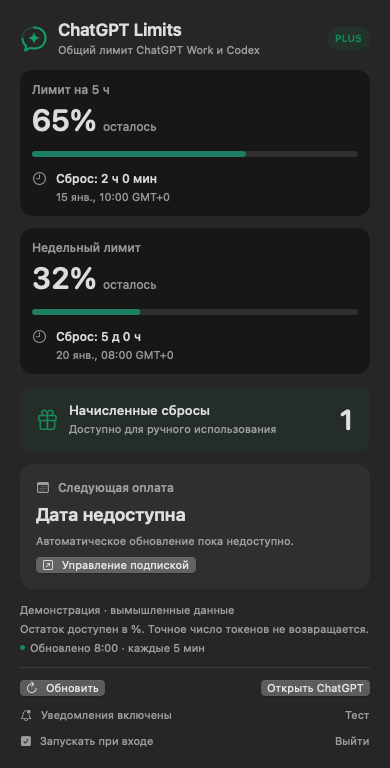
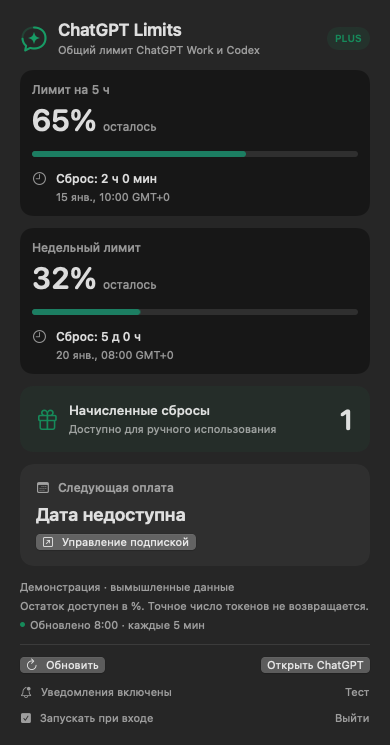
Release 1.3.8 with verified renewal date import

diff --git a/Sources/LimitsCore/VerifiedBilling.swift b/Sources/LimitsCore/VerifiedBilling.swift
@@ -3,38 +3,85 @@ import CryptoKit
 
 /// A dated observation of the subscription page, not an automatic billing feed.
 /// Store only this projection locally; never store browser credentials or invoices.
-public struct VerifiedBilling: Codable {
+public struct VerifiedBilling: Codable, Equatable {
     public let accountFingerprint: String
     public let planType: String
     public let renewalDay: String
     public let checkedAt: Double
     public let source: String
 
-    public static func load(accountID: String?, plan: String?, now: Date) -> VerifiedBilling? {
-        let url = FileManager.default.homeDirectoryForCurrentUser
+    private static var storageURL: URL {
+        FileManager.default.homeDirectoryForCurrentUser
             .appendingPathComponent("Library/Application Support/ChatGPT Limits/verified-billing.json")
+    }
+
+    private static func stored() -> VerifiedBilling? {
+        let url = storageURL
         guard let size = try? url.resourceValues(forKeys: [.fileSizeKey]).fileSize, size <= 4096,
-              let data = try? Data(contentsOf: url),
-              let snapshot = try? JSONDecoder().decode(VerifiedBilling.self, from: data),
-              snapshot.matches(accountID: accountID, plan: plan, now: now) else { return nil }
+              let data = try? Data(contentsOf: url) else { return nil }
+        return try? JSONDecoder().decode(VerifiedBilling.self, from: data)
+    }
+
+    public static func load(accountID: String?, plan: String?, now: Date) -> VerifiedBilling? {
+        guard let snapshot = stored(), snapshot.matches(accountID: accountID, plan: plan, now: now) else { return nil }
         return snapshot
+    }
+
+    static func fingerprint(_ value: String) -> String {
+        SHA256.hash(data: Data(value.utf8)).map { String(format: "%02x", $0) }.joined()
+    }
+
+    public static func refreshDue(at now: Date) throws -> Bool {
+        guard let snapshot = stored(), !snapshot.needsVerification(at: now),
+              (snapshot.daysRemaining(at: now) ?? 0) > 0 else { return true }
+        let usage = try LimitsReader.fetch()
+        return !snapshot.matches(accountID: usage.accountId, plan: usage.planType, now: now)
+            || now.timeIntervalSince1970 - snapshot.checkedAt >= 6 * 86400
+    }
+
+    public static func sync(renewalDay: String, emailFingerprint: String, plan: String, at now: Date) throws {
+        guard let date = parseDay(renewalDay),
+              date >= Calendar(identifier: .gregorian).startOfDay(for: now),
+              emailFingerprint.range(of: "^[0-9a-f]{64}$", options: .regularExpression) != nil,
+              plan.range(of: "^[a-z0-9_]{1,30}$", options: .regularExpression) != nil else {
+            throw LimitsError.malformed
+        }
+        let usage = try LimitsReader.fetchBillingUsage(emailFingerprint: emailFingerprint, plan: plan)
+        guard let accountID = usage.accountId, !accountID.isEmpty, usage.planType == plan else {
+            throw LimitsError.authentication
+        }
+        let snapshot = VerifiedBilling(accountFingerprint: fingerprint(accountID), planType: plan,
+                                       renewalDay: renewalDay, checkedAt: now.timeIntervalSince1970,
+                                       source: "chatgpt-settings")
+        let url = storageURL
+        let manager = FileManager.default
+        let directory = url.deletingLastPathComponent()
+        try manager.createDirectory(at: directory, withIntermediateDirectories: true,
+                                    attributes: [.posixPermissions: 0o700])
+        let staging = directory.appendingPathComponent(UUID().uuidString)
+        defer { try? manager.removeItem(at: staging) }
+        guard manager.createFile(atPath: staging.path, contents: try JSONEncoder().encode(snapshot),
+                                 attributes: [.posixPermissions: 0o600]) else { throw CocoaError(.fileWriteUnknown) }
+        // The private, fully written file replaces the previous snapshot atomically.
+        guard rename(staging.path, url.path) == 0 else { throw CocoaError(.fileWriteUnknown) }
     }
 
     public func matches(accountID: String?, plan: String?, now: Date) -> Bool {
         guard let accountID, !accountID.isEmpty, plan == planType,
               source == "chatgpt-settings", checkedAt.isFinite, checkedAt > 0,
               checkedAt <= now.timeIntervalSince1970 + 60, renewalDate != nil else { return false }
-        let fingerprint = SHA256.hash(data: Data(accountID.utf8)).map { String(format: "%02x", $0) }.joined()
-        return fingerprint == accountFingerprint
+        return Self.fingerprint(accountID) == accountFingerprint
     }
 
-    public var renewalDate: Date? {
+    public var renewalDate: Date? { Self.parseDay(renewalDay) }
+
+    private static func parseDay(_ day: String) -> Date? {
         let format = DateFormatter()
         format.locale = Locale(identifier: "en_US_POSIX")
         format.calendar = Calendar(identifier: .gregorian)
         format.dateFormat = "yyyy-MM-dd"
         format.isLenient = false
-        guard let date = format.date(from: renewalDay), format.string(from: date) == renewalDay else { return nil }
+        guard let date = format.date(from: day), format.string(from: date) == day else { return nil }
         return date
     }
 
@@ -46,6 +93,6 @@ public struct VerifiedBilling: Codable {
     }
 
     public func needsVerification(at now: Date) -> Bool {
-        now.timeIntervalSince1970 - checkedAt >= 86400 || (daysRemaining(at: now) ?? -1) < 0
+        now.timeIntervalSince1970 - checkedAt >= 7 * 86400 || (daysRemaining(at: now) ?? -1) < 0
     }
 }

diff --git a/Sources/LimitsCore/LimitsReader.swift b/Sources/LimitsCore/LimitsReader.swift
@@ -17,6 +17,15 @@ public enum LimitsError: Error, LocalizedError {
 }
 
 public enum LimitsReader {
+    private struct AccountResult: Decodable {
+        struct Account: Decodable {
+            let type: String
+            let email: String?
+            let planType: String?
+        }
+        let account: Account?
+    }
+
     public static func executable() -> URL? {
         let home = FileManager.default.homeDirectoryForCurrentUser.path
         let paths = [
@@ -32,8 +41,22 @@ public enum LimitsReader {
     }
 
     // Uses the installed client's login; never reads, copies or logs credentials.
-    // Only initialize and account/rateLimits/read are sent. No inference or reset redemption.
     public static func fetch(timeout: TimeInterval = 30) throws -> Usage {
+        try read("account/rateLimits/read", params: [:], timeout: timeout)
+    }
+
+    /// Compare the browser account before requesting limits from the same app-server session.
+    static func fetchBillingUsage(emailFingerprint: String, plan: String) throws -> Usage {
+        try read("account/rateLimits/read", params: [:], timeout: 30) { account in
+            guard account.type == "chatgpt",
+                  let email = account.email?.trimmingCharacters(in: .whitespacesAndNewlines).lowercased(),
+                  !email.isEmpty, VerifiedBilling.fingerprint(email) == emailFingerprint,
+                  account.planType?.lowercased() == plan else { throw LimitsError.authentication }
+        }
+    }
+
+    private static func read<T: Decodable>(_ method: String, params: [String: Any], timeout: TimeInterval,
+                                           verifyAccount: ((AccountResult.Account) throws -> Void)? = nil) throws -> T {
         guard let executable = executable() else { throw LimitsError.missingCLI }
         let process = Process(), input = Pipe(), output = Pipe()
         process.executableURL = executable
@@ -62,9 +85,10 @@ public enum LimitsReader {
             try input.fileHandleForWriting.write(contentsOf: data)
         }
         try send(["id": 1, "method": "initialize", "params": ["clientInfo": [
-            "name": "chatgpt_limits_menu", "title": "ChatGPT Limits", "version": "1.3.7"
+            "name": "chatgpt_limits_menu", "title": "ChatGPT Limits", "version": "1.3.8"
         ]]])
         var buffer = Data(), initialized = false
+        let resultID = verifyAccount == nil ? 2 : 3
         let deadline = ProcessInfo.processInfo.systemUptime + timeout
         while ProcessInfo.processInfo.systemUptime < deadline {
             var descriptor = pollfd(fd: output.fileHandleForReading.fileDescriptor, events: Int16(POLLIN), revents: 0)
@@ -80,7 +104,7 @@ public enum LimitsReader {
                 let line = Data(buffer[..<newline])
                 buffer.removeSubrange(...newline)
                 guard let message = try? JSONSerialization.jsonObject(with: line) as? [String: Any],
-                      let id = message["id"] as? Int, id == 1 || id == 2 else { continue }
+                      let id = message["id"] as? Int, (1...resultID).contains(id) else { continue }
                 if let error = message["error"] as? [String: Any] {
                     let text = (error["message"] as? String ?? "").lowercased()
                     if ["401", "unauthorized", "not authenticated", "sign in", "authentication", "not logged"].contains(where: text.contains) {
@@ -91,9 +115,19 @@ public enum LimitsReader {
                 if id == 1 && !initialized {
                     initialized = true
                     try send(["method": "initialized", "params": [:]])
-                    try send(["id": 2, "method": "account/rateLimits/read", "params": [:]])
-                } else if id == 2, initialized, let result = message["result"] as? [String: Any] {
-                    do { return try JSONDecoder().decode(Usage.self, from: JSONSerialization.data(withJSONObject: result)) }
+                    if verifyAccount != nil {
+                        try send(["id": 2, "method": "account/read", "params": ["refreshToken": false]])
+                    } else {
+                        try send(["id": resultID, "method": method, "params": params])
+                    }
+                } else if id == 2, initialized, let verifyAccount {
+                    guard let result = message["result"] as? [String: Any],
+                          let account = try JSONDecoder().decode(AccountResult.self, from: JSONSerialization.data(withJSONObject: result)).account
+                    else { throw LimitsError.authentication }
+                    try verifyAccount(account)
+                    try send(["id": resultID, "method": method, "params": params])
+                } else if id == resultID, initialized, let result = message["result"] as? [String: Any] {
+                    do { return try JSONDecoder().decode(T.self, from: JSONSerialization.data(withJSONObject: result)) }
                     catch { throw LimitsError.malformed }
                 }
             }

diff --git a/Sources/ChatGPTLimits/main.swift b/Sources/ChatGPTLimits/main.swift
@@ -67,11 +67,16 @@ final class UsageModel: ObservableObject {
                     self.updatedAt = self.now
                     self.error = nil
                     self.notifications.observe(usage, at: self.now)
-                    self.verifiedBilling = VerifiedBilling.load(accountID: usage.accountId, plan: usage.planType, now: self.now)
+                    self.reloadBilling()
                 case .failure(let failure): self.error = (failure as? LimitsError)?.errorDescription ?? "Не удалось обновить данные."
                 }
             }
         }
+    }
+    func reloadBilling() {
+        guard !isPreview else { return }
+        let snapshot = VerifiedBilling.load(accountID: usage?.accountId, plan: usage?.planType, now: now)
+        if snapshot != verifiedBilling { verifiedBilling = snapshot }
     }
     func toggleLogin() {
         do {
@@ -343,6 +348,7 @@ final class AppDelegate: NSObject, NSApplicationDelegate, NSPopoverDelegate {
     func showPopover() {
         guard let button = statusItem.button else { return }
         model.now = Date()
+        model.reloadBilling()
         model.loginStatus = SMAppService.mainApp.status
         model.notifications.refreshAuthorization()
         if model.stale { model.refresh() }
@@ -374,13 +380,37 @@ if let index = CommandLine.arguments.firstIndex(of: "--render-app-icons"), index
     case .notFound: print("not-found")
     @unknown default: print("unknown")
     }
+} else if CommandLine.arguments.contains("--billing-refresh-needed") {
+    do { print(try VerifiedBilling.refreshDue(at: Date()) ? "due" : "fresh") }
+    catch { fputs("Unable to check subscription refresh status.\n", stderr); exit(1) }
+} else if CommandLine.arguments.contains("--sync-renewal") {
+    struct RenewalObservation: Decodable {
+        let renewalDay: String
+        let emailFingerprint: String
+        let plan: String
+    }
+    do {
+        guard let input = try FileHandle.standardInput.read(upToCount: 4097), input.count <= 4096 else {
+            throw LimitsError.malformed
+        }
+        let observation = try JSONDecoder().decode(RenewalObservation.self, from: input)
+        try VerifiedBilling.sync(renewalDay: observation.renewalDay, emailFingerprint: observation.emailFingerprint,
+                                 plan: observation.plan, at: Date())
+        print("Renewal date synced.")
+    } catch {
+        let message = (error as? LimitsError) == .authentication
+            ? "The browser account or plan could not be matched to Codex."
+            : "Unable to sync the renewal date."
+        fputs("\(message)\n", stderr)
+        exit(1)
+    }
 } else if CommandLine.arguments.contains("--check") {
     do {
         let usage = try LimitsReader.fetch()
         print(usage.statusTitle(at: Date(), stale: false))
         print("Buckets: \(usage.buckets.count); reset credits: \(usage.resetCount.map(String.init) ?? "unknown")")
         if let billing = VerifiedBilling.load(accountID: usage.accountId, plan: usage.planType, now: Date()) {
-            print("Verified renewal: \(billing.renewalDay); automatic updates: unavailable")
+            print("Verified renewal: \(billing.renewalDay); verification: \(billing.needsVerification(at: Date()) ? "due" : "fresh")")
         }
     } catch {
         fputs("\((error as? LimitsError)?.errorDescription ?? "Не удалось получить данные")\n", stderr)

diff --git a/Sources/ChatGPTLimits/BillingCard.swift b/Sources/ChatGPTLimits/BillingCard.swift
@@ -17,24 +17,20 @@ struct BillingCard: View {
         VStack(alignment: .leading, spacing: 9) {
             Label("Следующая оплата", systemImage: "calendar")
                 .font(.system(size: 12, weight: .medium)).foregroundStyle(.secondary)
-            if let snapshot, let date = snapshot.renewalDate {
+            if let snapshot, let date = snapshot.renewalDate, let days = snapshot.daysRemaining(at: now), days >= 0 {
                 Text(formatted(date)).font(.system(size: 18, weight: .semibold))
-                if let days = snapshot.daysRemaining(at: now), days >= 0 {
-                    Text(days == 0 ? "Сегодня" : "До продления: \(days) дн.")
-                        .font(.system(size: 12)).foregroundStyle(.secondary)
-                }
+                Text(days == 0 ? "Сегодня" : "До продления: \(days) дн.")
+                    .font(.system(size: 12)).foregroundStyle(.secondary)
                 Text("Проверено \(formatted(Date(timeIntervalSince1970: snapshot.checkedAt))) в ChatGPT.")
                     .font(.system(size: 11)).foregroundStyle(.secondary)
-                Text(snapshot.needsVerification(at: now)
-                     ? "Последняя известная дата — проверьте актуальность."
-                     : "Дата продления; списание ещё не подтверждено.")
-                    .font(.system(size: 11)).foregroundStyle(snapshot.needsVerification(at: now) ? .orange : .secondary)
+                if snapshot.needsVerification(at: now) {
+                    Text("Дату нужно сверить с подпиской.").font(.system(size: 11)).foregroundStyle(.orange)
+                }
+            } else if snapshot != nil {
+                Text("Ожидает обновления").font(.system(size: 18, weight: .semibold))
             } else {
                 Text("Дата недоступна").font(.system(size: 18, weight: .semibold))
             }
-            Text("Автоматическое обновление пока недоступно.")
-                .font(.system(size: 11)).foregroundStyle(.secondary)
-                .fixedSize(horizontal: false, vertical: true)
             Button(action: openSubscription) {
                 Label("Управление подпиской", systemImage: "arrow.up.right.square")
             }.controlSize(.small)

diff --git a/Tests/LimitsCoreTests/VerifiedBillingChecks.swift b/Tests/LimitsCoreTests/VerifiedBillingChecks.swift
@@ -27,7 +27,8 @@ final class VerifiedBillingChecks {
     func freshnessAndNoRollover() throws {
         let value = try snapshot(), now = Date(timeIntervalSince1970: 1_800_000_000)
         precondition(!value.needsVerification(at: now))
-        precondition(value.needsVerification(at: now.addingTimeInterval(86400)))
+        precondition(!value.needsVerification(at: now.addingTimeInterval(6 * 86400)))
+        precondition(value.needsVerification(at: now.addingTimeInterval(7 * 86400)))
         let after = value.renewalDate!.addingTimeInterval(86400)
         precondition(value.daysRemaining(at: after) == -1)
         precondition(value.needsVerification(at: after))

diff --git a/README.ru.md b/README.ru.md
@@ -10,7 +10,7 @@
 
 ## Установка без Терминала
 
-**[Скачать ChatGPT Limits 1.3.7 — DMG](https://github.com/Nazhmetdinov/chatgpt-limits-macos/releases/download/v1.3.7/ChatGPT-Limits-v1.3.7-macOS-universal.dmg)** — один файл для Apple Silicon и Intel. [Все файлы релиза](https://github.com/Nazhmetdinov/chatgpt-limits-macos/releases/latest). Нужны macOS 13+ и установленный ChatGPT или Codex с выполненным входом; Swift и инструменты разработки не нужны.
+**[Скачать ChatGPT Limits 1.3.8 — DMG](https://github.com/Nazhmetdinov/chatgpt-limits-macos/releases/download/v1.3.8/ChatGPT-Limits-v1.3.8-macOS-universal.dmg)** — один файл для Apple Silicon и Intel. [Все файлы релиза](https://github.com/Nazhmetdinov/chatgpt-limits-macos/releases/latest). Нужны macOS 13+ и установленный ChatGPT или Codex с выполненным входом; Swift и инструменты разработки не нужны.
 
 1. Скачайте и откройте DMG.
 2. Перетащите **ChatGPT Limits** на папку **Applications («Программы»)**.
@@ -47,7 +47,7 @@
 
 Кнопка **«Управление подпиской»** открывает настройки подписки ChatGPT в новой вкладке Chrome/Chromium, Edge, Brave, Vivaldi или Firefox, если этот браузер выбран по умолчанию. Safari и другие браузеры используют собственную настройку открытия внешних ссылок. Если открытых окон нет, браузер создаст окно. Индикатор не требует отдельного окна входа, расширения браузера или режима разработчика.
 
-Карточка **«Следующая оплата»** показывает локально сохранённую проверенную дату для текущего аккаунта и тарифа, если такая запись есть; иначе — **«Дата недоступна»**. Видно, когда дата проверена на странице подписки ChatGPT. Через сутки появляется просьба проверить актуальность; приложение не переносит дату на следующий месяц самостоятельно. Пока запись создаётся только при проверке с помощником: обычная установка сама дату не импортирует. Автоматического обновления даты в этой версии нет: ответ установленного клиента с лимитами не содержит платёжных дат. Приложение не вычисляет их из сроков сброса лимитов. Платежи управляются через сервис, где оформлена подписка: ChatGPT, App Store, Google Play или другого поставщика.
+Карточка **«Следующая оплата»** показывает дату продления, сверенную для текущего аккаунта и тарифа. Через семь дней появляется пометка о проверке. Прошедшая дата скрывается. API Codex возвращает лимиты, но не дату оплаты. Для веб-подписок дату можно обновлять по расписанию через отдельно настроенную локальную автоматизацию Codex. Она читает дату в действующем сеансе ChatGPT и сверяет аккаунт и тариф перед записью. Подписки, приобретённые на iOS и Android, обслуживают соответствующие магазины.
 
 ## Уведомления
 
@@ -77,7 +77,7 @@ bash scripts/install.sh
 
 ## Устройство и данные
 
-Приложение запускает установленный `codex app-server`, отправляет только `initialize` и `account/rateLimits/read`, затем завершает дочерний процесс. Использует существующий вход клиента, не читает и не копирует файлы авторизации, не запускает модель, не покупает кредиты и не тратит дополнительные сбросы. Авторизацию и сетевые обращения выполняет установленный клиент.
+Приложение получает лимиты через установленный Codex App Server. При импорте даты продления тот же сервис помогает сверить аккаунт и тариф. Адрес аккаунта используется только в памяти для сравнения отпечатков.
 
 Приоритет имеет `rateLimitsByLimitId`, запасной вариант — `rateLimits`. Количество сбросов берётся из `availableCount`, а не из длины списка подробностей. Неизвестные значения остаются неизвестными.
 

diff --git a/README.md b/README.md
@@ -10,7 +10,7 @@ An independent, unofficial project. Not affiliated with OpenAI. The app interfac
 
 ## Install without Terminal
 
-**[Download ChatGPT Limits 1.3.7 — DMG](https://github.com/Nazhmetdinov/chatgpt-limits-macos/releases/download/v1.3.7/ChatGPT-Limits-v1.3.7-macOS-universal.dmg)**: one file for Apple Silicon and Intel. [All release files](https://github.com/Nazhmetdinov/chatgpt-limits-macos/releases/latest). Requires macOS 13+ and an installed, signed-in ChatGPT or Codex client. Swift and developer tools are not needed.
+**[Download ChatGPT Limits 1.3.8 — DMG](https://github.com/Nazhmetdinov/chatgpt-limits-macos/releases/download/v1.3.8/ChatGPT-Limits-v1.3.8-macOS-universal.dmg)**: one file for Apple Silicon and Intel. [All release files](https://github.com/Nazhmetdinov/chatgpt-limits-macos/releases/latest). Requires macOS 13+ and an installed, signed-in ChatGPT or Codex client. Swift and developer tools are not needed.
 
 1. Download and open the DMG.
 2. Drag **ChatGPT Limits** onto **Applications**.
@@ -47,7 +47,7 @@ The service reports **percentages, not a fixed number of remaining tokens**. Thi
 
 **Управление подпиской** opens ChatGPT subscription settings in a new tab in Chrome/Chromium, Edge, Brave, Vivaldi and Firefox when one of these is the default browser. Safari and other browsers follow their own external-link tab/window preferences. A browser window is created if none is open. No separate sign-in window, browser extension, or developer-mode setup is required by the monitor.
 
-The **Следующая оплата** card displays a locally verified date when a snapshot for the current account and plan is present, or **Дата недоступна** otherwise. The snapshot records when the date was checked on the ChatGPT subscription page, marks it as needing verification after 24 hours, and never rolls it forward automatically. Currently this is populated only during assisted verification; ordinary installation does not automatically import a date. Automatic next-payment updates are not available in this version: the installed client's limits response does not include billing dates. The monitor does not infer them from usage resets. Manage payments through the service where the subscription was purchased (ChatGPT, App Store, Google Play, or another provider).
+The **Следующая оплата** card shows the renewal day most recently verified for the active account and plan. It marks observations after seven days for review and hides dates that have passed. The Codex API provides quota, but no personal billing dates. For web subscriptions, a separately configured local Codex automation can read the date from signed-in ChatGPT and import it after matching the account and plan. Set up the automation in Codex if you want scheduled updates. For subscriptions purchased on iOS or Android, Apple or Google manages billing.
 
 ## Notifications
 
@@ -77,7 +77,7 @@ Builds use an **ad-hoc signature** and are not notarized. `bash scripts/build.sh
 
 ## How it works and privacy
 
-The app starts the installed `codex app-server` over stdio, sends `initialize` and `account/rateLimits/read`, then stops that child process. It uses the client's existing login. It does not read or copy credential files, call a model, buy credits, or redeem resets. The installed client handles authentication and its own network traffic.
+The app reads quotas through the installed Codex App Server. The optional renewal import also compares the account identity and plan through the same service. The account email is used in memory only to compare its fingerprint.
 
 It prefers `rateLimitsByLimitId`, with a legacy `rateLimits` fallback. The reset balance comes from `availableCount`, not from the length of a possibly truncated details list. Unknown fields remain unknown.
 

diff --git a/docs/RELEASE_NOTES_1.3.8.md b/docs/RELEASE_NOTES_1.3.8.md
@@ -1,0 +1,11 @@
+# ChatGPT Limits 1.3.8
+
+Карточка «Следующая оплата» обновляется при открытии панели. Прошедшая дата сменяется статусом «Ожидает обновления». Если дату сверяли больше недели назад, карточка предлагает проверить её актуальность.
+
+Для веб-подписок добавлен локальный импорт даты, указанной в настройках ChatGPT. Перед сохранением утилита сверяет аккаунт и тариф через Codex. Для обновлений по расписанию настройте локальную автоматизацию в Codex с действующим входом в ChatGPT. Подписки из App Store и Google Play обслуживают соответствующие магазины.
+
+Скачайте **ChatGPT-Limits-v1.3.8-macOS-universal.dmg** и перетащите приложение в «Программы». Поддерживаются Apple Silicon и Intel с macOS 13 или новее. Сборка имеет ad-hoc подпись и не прошла notarization. ZIP, исходники и контрольные суммы SHA-256 доступны в файлах релиза.
+
+---
+
+The renewal card reloads when opened and replaces past dates with a waiting status. For web subscriptions, a separately configured local Codex automation can import the renewal date after the app verifies the account and plan. Download the universal DMG for macOS 13 or later. The build is ad-hoc signed and not notarized.

diff --git a/docs/RELEASING.md b/docs/RELEASING.md
@@ -1,6 +1,6 @@
 # Release preparation and GitHub publication
 
-Release **1.3.7** includes a panel that fits its content and a flat green conversation mark with a quota arc and an AI spark. It includes a next-payment card for optional, locally verified renewal snapshots and a default-browser subscription-management link. Personal snapshots are never bundled, committed or published; other users see unavailable until a date has been verified for their account. Chromium browsers and Firefox use a new-tab command; Safari and other browsers retain their own link-opening preferences. Automatic billing-date retrieval is still unavailable. Creating a local commit or archive does not publish a repository or release.
+The next-payment card uses locally verified renewal snapshots and supports an optional import from a separately configured local Codex automation. Use synthetic fixtures for screenshots and keep personal snapshots and automation settings outside the repository and release archives.
 
 Public repository: `Nazhmetdinov/chatgpt-limits-macos`.
 

diff --git a/CHANGELOG.md b/CHANGELOG.md
@@ -1,5 +1,10 @@
 # Changelog
 
+## 1.3.8 — 2026-11-18
+
+- Import verified web renewal dates through a local command that checks the active ChatGPT account and plan.
+- Refresh the card on open and hide past renewal dates.
+
 ## 1.3.7 — 2026-11-04
 
 - Add a native macOS app icon: an emerald tile with the shared conversation, quota and AI mark.
